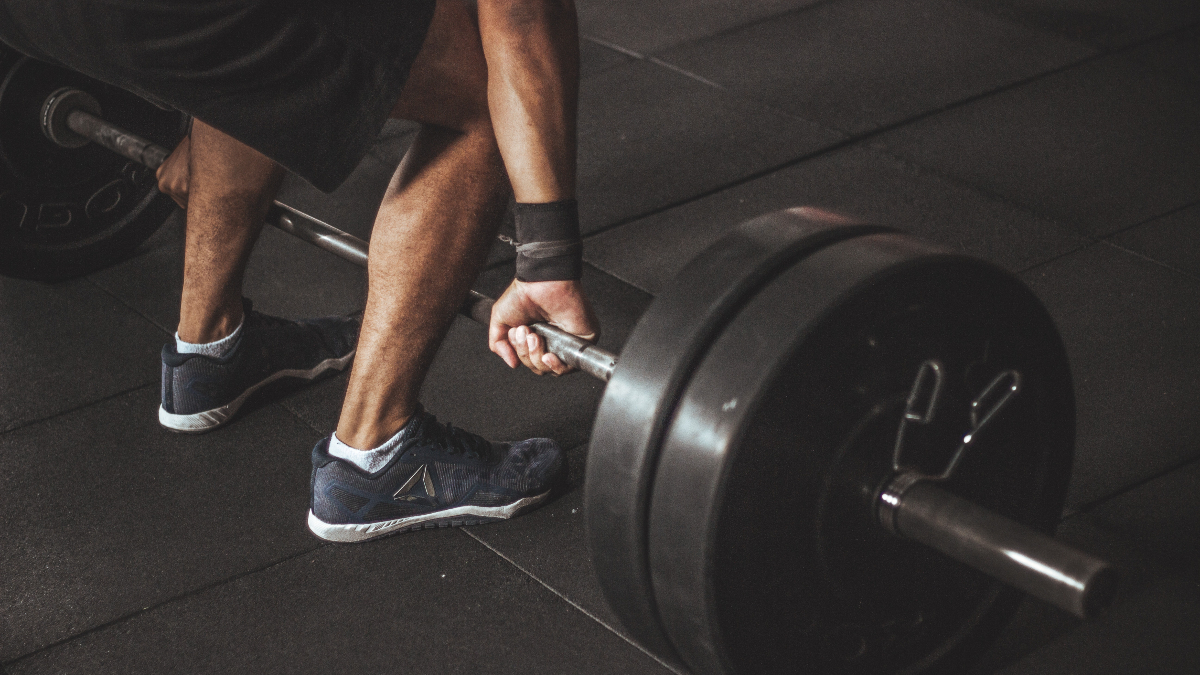
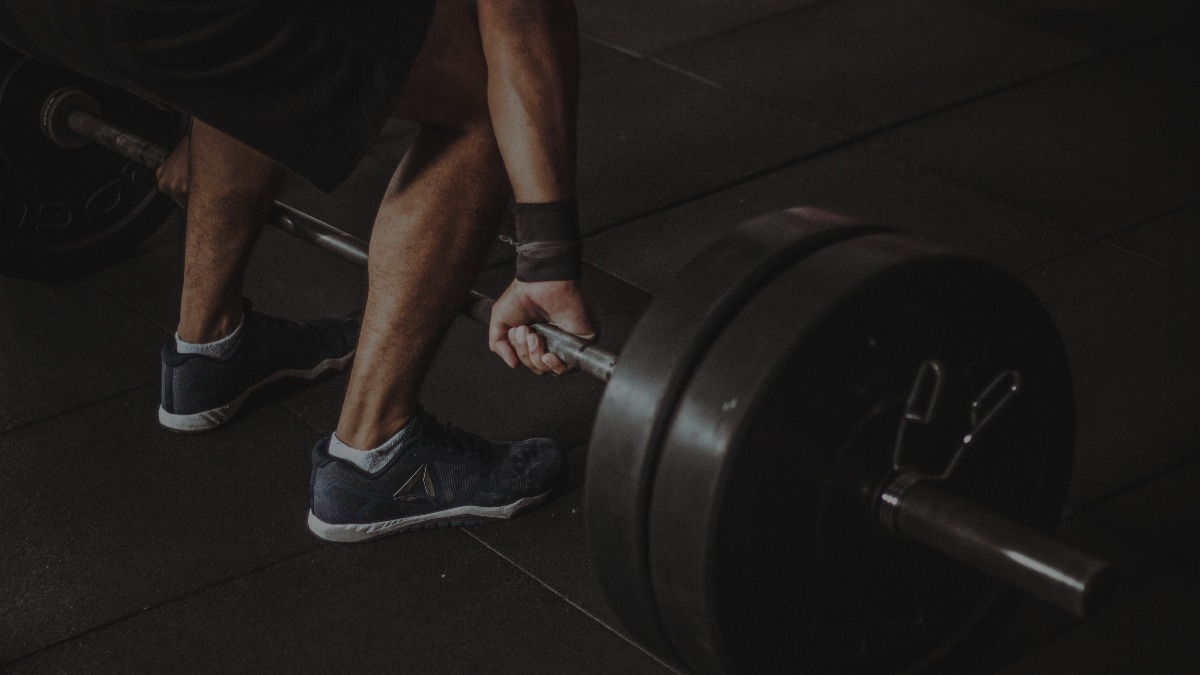
Update front-end

diff --git a/scss/sections/_homepage.scss b/scss/sections/_homepage.scss
@@ -1,3 +1,5 @@
+@use '../custom' as *;
+
 .homepage-section {
     padding-bottom: 56px;
 
@@ -13,10 +15,40 @@
                     top: 0;
                     left: 0;
                     min-height: 755px;
+                    background-color: 0.5 $black !important;
                 }
 
                 .carousel-caption {
-                    height: 50%;
+                    height: 60%;
+                    animation: fadeIn 5s;
+
+                    button {
+                        width: 200px;
+                        height: 50px;
+                        color: $white;
+                    }
+                }
+
+                @keyframes fadeIn {
+                    0% {
+                        opacity: 0;
+                        transform: translateY(-30%);
+                    }
+
+                    20% {
+                        opacity: 0.5;
+                        transform: translateY(0%);
+                    }
+
+                    50% {
+                        opacity: 1;
+                        transform: translateY(0%);
+                    }
+
+                    100% {
+                        opacity: 1;
+                        transform: translateY(0%);
+                    }
                 }
             }
         }

diff --git a/scss/_base.scss b/scss/_base.scss
@@ -1,5 +1,23 @@
 body {
     height: 100%;
+
+    section {
+
+        animation: fadeInAnimation 3s;
+        animation-iteration-count: 1;
+    
+    
+        @keyframes fadeInAnimation {
+            0% {
+                opacity: 0;
+            }
+        
+            100% {
+                opacity: 1;
+             }
+        }
+    }
+
 }
 
 .container {

diff --git a/pages/homepage.php b/pages/homepage.php
@@ -15,24 +15,24 @@
                 <div class="carousel-item active">
                     <img src="img/fitness1.jpg" class="d-block w-100" alt="">
                     <div class="carousel-caption d-none d-md-block">
-                        <h5>Build Your Menu</h5>
-                        <p>Als jij nog niet zo goed weet wat je allemaal moet doen om jouw doel te bereiken, dan kan je onze vragenlijst invullen en daarop gebasseerd wordt jouw workout uitgekozen!</p>
+                        <h1 class="mb-2">Build Your Workout</h1>
+                        <p class="h4 mb-5">Als jij nog niet zo goed weet wat je allemaal moet doen om jouw doel te bereiken, dan kan je onze vragenlijst invullen en daarop gebasseerd wordt jouw workout uitgekozen!</p>
                         <a href="?page=build"><button class="btn btn-primary">Build Your Workout</button></a>
                     </div>
                 </div>
                 <div class="carousel-item">
                     <img src="img/fitness2.jpg" class="d-block w-100" alt="">
                     <div class="carousel-caption d-none d-md-block">
-                        <h5>Schema</h5>
-                        <p>Maak je eigen schema met je doelen die je wilt behalen!.</p>
+                        <h1 class="mb-2">Schema</h1>
+                        <p class="h4 mb-5">Maak je eigen schema met je doelen die je wilt behalen!.</p>
                         <a href="?page=schema"><button class="btn btn-primary">Schema</button></a>
                     </div>
                 </div>
                 <div class="carousel-item">
                     <img src="img/fitness3.jpg" class="d-block w-100" alt="">
                     <div class="carousel-caption d-none d-md-block">
-                        <h5>Contact</h5>
-                        <p>Heb je een probleem of wil je iets extra's weten wat niet in onze veelgestelde vragen staat, kunt u ons altijd bereiken via onze conatct pagina.</p>
+                        <h1 class="mb-2">Contact</h1>
+                        <p class="h4 mb-5">Heb je een probleem of wil je iets extra's weten wat niet in onze veelgestelde vragen staat, kunt u ons altijd bereiken via onze conatct pagina.</p>
                         <a href="?page=contact"><button class="btn btn-primary">Contact</button></a>
                     </div>
                 </div>

diff --git a/pages/oefeningen.php b/pages/oefeningen.php
@@ -1,4 +1,4 @@
-<body>
+<section class="oefening-section">
 <form id="js-filters" aria-label="Filters">
 	<fieldset id=Search>
 		<legend>Zoeken:</legend>
@@ -24,4 +24,4 @@
 	<script src="js/tableFunctions.js"></script>
 	</div>
 </div>
-</body>
+</section>

diff --git a/pages/schema.php b/pages/schema.php
@@ -5,4 +5,3 @@
 	<script src="js/tableFunctions.js"></script>
 	</div>
 </div>
-</body>
